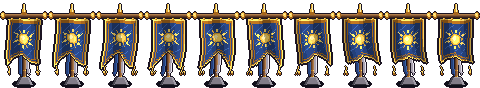
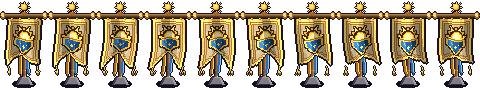
Знамя храмовника в символике фракций: Сольгард — солнце над щитом, Умбрат — корона с черепом
Сольгард (data/factions.json: «Восходящее солнце над щитом»): полотнище цвета пергамента с широкой золотой каймой, золотое восходящее солнце над небесно-голубым щитом, ленты золото и небесно-голубой, золотые кисти, навершие — солнечный диск.
Умбрат («Чёрная корона с черепом»): чёрно-фиолетовое полотнище с фиолетовой каймой, корона над костяным черепом с зелёными глазами, навершие — зубцы короны.

diff --git a/tools/gen/vfx-banner.ts b/tools/gen/vfx-banner.ts
@@ -1,5 +1,7 @@
 /** Штандарт «Знамя защиты» (tp_banner, задача 127, шаг 4): большое знамя на высоком древке, колышется на ветру, кольцо ауры радиуса баффа и пыль установки.
- *  Две фракции по caster: Сольгард — тёмно-синее полотнище, золотая кайма и золотое солнце; Умбрат — чёрно-фиолетовое полотнище, фиолетовая кайма, зелёное око.
+ *  Символика по data/factions.json. Сольгард («Восходящее солнце над щитом»): полотнище слоновой кости с широкой золотой каймой, золотое восходящее солнце над
+ *  небесно-голубым щитом с золотым ободом, золотые кисти и ленты, навершие — золотой солнечный диск. Умбрат («Чёрная корона с черепом»): чёрно-фиолетовое полотнище,
+ *  фиолетовая кайма, чёрная корона над костяным черепом с зелёными глазами, навершие — зубцы короны.
  *  Холст 48×88, основание древка в точке привязки (0.5, 0.955); 10 кадров цикла, 9 fps. Палитра — tools/gen/palette.ts (P), золото как --gold.
  *  Ветер: полотнище нарисовано плоско (кайма, внутренняя линия, эмблема, фигурный низ — ласточкин хвост), затем каждый кадр искажается: строки сдвигаются
  *  по горизонтали (сильнее к низу), столбцы по вертикали (волна вдоль ширины); светотень складок бежит вместе с волной; ленты и кисти отстают по фазе.
@@ -22,14 +24,18 @@ interface Fac {
   mark: [RGBA, RGBA, RGBA];      // эмблема
   ribA: [RGBA, RGBA]; ribB: [RGBA, RGBA];
   ring: RGBA[];
+  /** Ширина каймы, px; навершие: солнечный диск (Сольгард) или зубцы короны (Умбрат). */
+  trimW: number; finial: "sun" | "crown";
 }
 const FAC: Record<"solgard" | "umbrath", Fac> = {
   solgard: {
-    field: [hex("#16243e"), hex("#24407a"), hex("#3a62a8")],
+    // слоновая кость с тёплыми серо-бежевыми складками, широкая золотая кайма (золото и тёплый белый фракции)
+    field: [hex("#7a6a4c"), hex("#bfae88"), hex("#d6c8a4")],
     trim: [P.gold[1], P.gold[3], P.gold[4]],
     mark: [P.gold[2], P.gold[3], P.gold[4]],
-    ribA: [hex("#24407a"), hex("#3a62a8")], ribB: [hex("#a8a2b0"), hex("#e8e4ee")],
-    ring: [P.gold[0], P.gold[1], P.gold[2], P.gold[3], P.gold[4]],
+    ribA: [P.gold[1], P.gold[3]], ribB: [hex("#2c6ca8"), hex("#7ec8ff")],
+    ring: [P.gold[0], P.gold[1], P.gold[2], P.gold[3], hex("#fff4c8")],
+    trimW: 3, finial: "sun",
   },
   umbrath: {
     field: [hex("#100a1a"), hex("#22163a"), hex("#382858")],
@@ -37,6 +43,7 @@ const FAC: Record<"solgard" | "umbrath", Fac> = {
     mark: [P.magic.green[1], P.magic.green[2], P.magic.green[3]],
     ribA: [hex("#46265e"), hex("#6a3c8a")], ribB: [P.magic.green[1], P.magic.green[2]],
     ring: [hex("#2a1846"), hex("#5a34a0"), hex("#8a5ce0"), hex("#b890ff"), hex("#e0ccff")],
+    trimW: 2, finial: "crown",
   },
 };
 
@@ -46,37 +53,57 @@ function clothTexture(fac: "solgard" | "umbrath") {
   const bottom = (x: number) => CH - 1 - Math.round(11 * (1 - Math.abs((2 * x) / (CW - 1) - 1)));   // граница снизу: V-вырез
   for (let x = 0; x < CW; x++) for (let y = 0; y <= bottom(x); y++) mask[y][x] = true;
   const inside = (x: number, y: number) => x >= 0 && y >= 0 && x < CW && y < CH && mask[y][x];
-  // расстояние до края (манхэттенское по 4 соседям, до 5)
+  // расстояние до края (по 4 соседям, до 5)
   const dist = (x: number, y: number) => { for (let d = 1; d <= 5; d++) for (const [dx, dy] of [[d, 0], [-d, 0], [0, d], [0, -d]]) if (!inside(x + dx, y + dy)) return d; return 9; };
   for (let y = 0; y < CH; y++) for (let x = 0; x < CW; x++) {
     if (!mask[y][x]) continue;
     const d = dist(x, y);
     let c: RGBA = (x + y) % 9 === 0 && d > 5 ? F.field[2] : F.field[1];
-    if (d <= 2 || y < 3) c = d === 1 || y === 0 ? F.trim[1] : F.trim[0];            // кайма: 2 px по краю и 3 px сверху
-    else if (d === 4) c = F.trim[0];                                                 // внутренняя линия
+    if (d <= F.trimW || y < F.trimW + 1) c = d === 1 || y === 0 ? F.trim[1] : d === F.trimW ? F.trim[0] : (x + y) % 4 === 0 ? F.trim[2] : F.trim[1];   // кайма
+    else if (d === F.trimW + 2) c = F.trim[0];                                       // внутренняя линия
     tex.set(x, y, c);
   }
-  // эмблема
-  const ex = CW / 2, ey = 19;
+  // эмблема (крупно, контрастно, без мелочи)
+  const em = new PC(CW, CH), ex = CW / 2;
   if (fac === "solgard") {
-    // солнце: диск с бликом, 12 лучей (длинные и короткие через один)
-    for (let k = 0; k < 12; k++) {
-      const a = (k / 12) * TAU - Math.PI / 2, len = k % 2 === 0 ? 5 : 3, r1 = 6.2, px = -Math.sin(a), py = Math.cos(a);
-      tex.poly([[ex + Math.cos(a) * r1 + px * 1.3, ey + Math.sin(a) * r1 + py * 1.3], [ex + Math.cos(a) * r1 - px * 1.3, ey + Math.sin(a) * r1 - py * 1.3], [ex + Math.cos(a) * (r1 + len), ey + Math.sin(a) * (r1 + len)]], F.mark[k % 2 ? 0 : 1]);
+    // восходящее солнце (полудиск с лучами) над щитом
+    const G = P.gold, sky = [hex("#12365e"), hex("#1f5a96"), hex("#3a86c8"), hex("#7ec8ff")], sy = 17;
+    for (let k = 0; k <= 6; k++) {
+      const a = Math.PI + (k / 6) * Math.PI, len = k % 2 === 0 ? 5 : 3.5, r1 = 6.8, px = -Math.sin(a), py = Math.cos(a);
+      em.poly([[ex + Math.cos(a) * r1 + px * 1.4, sy + Math.sin(a) * r1 + py * 1.4], [ex + Math.cos(a) * r1 - px * 1.4, sy + Math.sin(a) * r1 - py * 1.4], [ex + Math.cos(a) * (r1 + len), sy + Math.sin(a) * (r1 + len)]], k % 2 ? G[2] : G[3]);
     }
-    tex.ellipse(ex, ey, 5.2, 5.2, F.mark[0]); tex.ellipse(ex, ey, 4.2, 4.2, F.mark[1]);
-    tex.ellipse(ex - 1, ey - 1, 2, 2, F.mark[2]);
+    for (let y = sy - 6; y <= sy; y++) for (let x = -6; x <= 6; x++) { const d = Math.hypot(x, y - sy); if (d <= 5.6) put(em, ex + x, y, d < 3.2 ? G[4] : d < 4.6 ? G[3] : G[2]); }
+    for (let x = -8; x <= 8; x++) { put(em, ex + x, sy + 1, G[3]); put(em, ex + x, sy + 2, G[1]); }                 // линия горизонта
+    // щит: небесно-голубой, золотой обод
+    const top = 20, bot = 33, hw = (y: number) => (y < 25 ? 9 : Math.max(0, 9 - (y - 25) * 1.15));
+    for (let y = top; y <= bot; y++) for (let x = -10; x <= 10; x++) {
+      const w = hw(y);
+      if (Math.abs(x) > w + 0.2 || w <= 0) continue;
+      const rim = Math.abs(x) > w - 1.3 || y === top || y === bot || (y > 25 && Math.abs(x) > w - 1.8);
+      put(em, ex + x, y, rim ? (x < 0 ? G[3] : G[2]) : y > bot - 4 ? sky[0] : x < -2 ? sky[2] : x > 3 ? sky[0] : sky[1]);
+    }
+    for (const [dx, dy] of [[0, 25], [0, 26], [-1, 26], [1, 26], [0, 27], [-3, 24], [3, 24]]) put(em, ex + dx, dy, G[3]);   // золотая звезда
+    put(em, ex - 4, top + 2, sky[3]); put(em, ex - 4, top + 3, sky[3]);
   } else {
-    // око: миндалевидный контур, радужка, зрачок, блик и три луча сверху
-    for (let x = -9; x <= 9; x++) {
-      const h = 4.6 * Math.pow(1 - (x / 9.4) ** 2, 0.7);
-      for (let y = -Math.ceil(h); y <= Math.ceil(h); y++) if (Math.abs(y) <= h) put(tex, ex + x, ey + y, Math.abs(y) >= h - 1 ? F.mark[0] : F.field[0]);
-      put(tex, ex + x, ey - Math.round(h) - 1, F.mark[1]); put(tex, ex + x, ey + Math.round(h) + 1, F.mark[0]);
+    // чёрная корона над костяным черепом со светящимися зелёными глазами
+    const lil = [hex("#6a3c8a"), hex("#9a62b8"), hex("#d0b4f0")], bone = P.bone, gr = P.magic.green, dark = hex("#0a0612");
+    for (const cxs of [8.5, 16, 23.5]) {
+      const apex = cxs === 16 ? 3 : 5;
+      em.poly([[cxs - 3.6, 12], [cxs + 3.6, 12], [cxs, apex]], lil[1]); em.line(cxs, apex + 1, cxs - 2.4, 11, lil[2], 1);
+      put(em, cxs, apex, lil[2]); put(em, cxs, apex + 1, lil[2]);
     }
-    tex.ellipse(ex, ey, 3.7, 3.7, F.mark[1]); tex.ellipse(ex, ey, 1.9, 1.9, F.field[0]); put(tex, ex - 1.5, ey - 1.5, F.mark[2]);
-    for (const dx of [-6, 0, 6]) { tex.line(ex + dx, ey - 8, ex + dx * 1.4, ey - 12, F.mark[1], 1); }
-    for (const dx of [-4, 4]) put(tex, ex + dx, ey + 9, F.mark[0]);
+    for (let x = -9; x <= 9; x++) { for (let y = 11; y <= 15; y++) put(em, ex + x, y, dark); put(em, ex + x, 11, lil[2]); put(em, ex + x, 15, lil[1]); }
+    for (const gx of [-6, 0, 6]) { put(em, ex + gx, 12, gr[3]); put(em, ex + gx, 13, gr[3]); put(em, ex + gx, 14, gr[2]); }
+    // череп
+    em.ellipse(ex, 22, 7.6, 6.8, bone[1]); em.ellipse(ex - 0.6, 21.4, 6.9, 6.1, bone[2]); em.ellipse(ex - 2.4, 19.6, 3.2, 2.2, bone[3]);
+    for (let y = 26; y <= 31; y++) for (let x = -4; x <= 4; x++) put(em, ex + x, y, x > 2 ? bone[1] : bone[2]);
+    for (const tx of [-2, 0, 2]) for (let y = 28; y <= 31; y++) put(em, ex + tx, y, dark);
+    for (let x = -4; x <= 4; x++) put(em, ex + x, 27, bone[0]);
+    for (const sx of [-3.4, 3.4]) { em.ellipse(ex + sx, 22, 2.9, 2.7, gr[0]); em.ellipse(ex + sx, 22, 2.1, 2.1, dark); em.ellipse(ex + sx, 22.2, 1.3, 1.3, gr[3]); put(em, ex + sx - 0.5, 21.5, gr[4]); }
+    em.poly([[ex, 24], [ex - 1.6, 26.2], [ex + 1.6, 26.2]], dark);
   }
+  em.outline(fac === "solgard" ? hex("#3a2208") : hex("#05030a"), true);   // тёмный контур эмблемы: читается с одного взгляда
+  tex.blit(em, 0, 0);
   return { tex, mask, bottom };
 }
 
@@ -123,8 +150,17 @@ function bannerFrame(fac: "solgard" | "umbrath", t: number, cloth: ReturnType<ty
   for (let x = 4; x <= W - 5; x++) { put(f, x, 14, wood[3]); put(f, x, 15, wood[2]); put(f, x, 16, wood[1]); put(f, x, 17, wood[0]); }
   for (const ex of [2, W - 4]) { f.ellipse(ex + 1, 15.5, 2.6, 3.4, gold[1]); f.ellipse(ex + 0.6, 14.8, 1.6, 2.2, gold[3]); put(f, ex, 14, gold[4]); }
   for (const rx of [X0 + 3, X0 + 11, X0 + CW - 12, X0 + CW - 4]) { put(f, rx, 18, gold[3]); put(f, rx + 1, 18, gold[2]); put(f, rx, 19, gold[2]); put(f, rx + 1, 19, gold[1]); }
-  f.poly([[CX - 2, 13], [CX + 2, 13], [CX + 1, 6], [CX, 3], [CX - 1, 6]], gold[2]); f.line(CX, 4, CX, 12, gold[4], 1); put(f, CX - 1, 8, gold[3]);
-  f.ellipse(CX, 13.5, 3, 1.6, gold[1]);
+  if (F.finial === "sun") {
+    // золотой солнечный диск с короткими лучами
+    for (let k = 0; k < 8; k++) { const a = (k / 8) * TAU; put(f, CX + Math.cos(a) * 5.4, 7 + Math.sin(a) * 5.4, gold[k % 2 ? 2 : 3]); put(f, CX + Math.cos(a) * 4.4, 7 + Math.sin(a) * 4.4, gold[3]); }
+    f.ellipse(CX, 7, 3.4, 3.4, gold[2]); f.ellipse(CX - 0.4, 6.6, 2.6, 2.6, gold[3]); put(f, CX - 1, 5, gold[4]); put(f, CX, 5, gold[4]);
+    f.ellipse(CX, 13.5, 3, 1.6, gold[1]);
+  } else {
+    // зубцы чёрной короны
+    const lil = [hex("#6a3c8a"), hex("#9a62b8"), hex("#d0b4f0")];
+    for (const dx of [-4, 0, 4]) { f.poly([[CX + dx - 2, 13], [CX + dx + 2, 13], [CX + dx, dx === 0 ? 2 : 5]], lil[1]); put(f, CX + dx, dx === 0 ? 2 : 5, lil[2]); f.line(CX + dx, dx === 0 ? 3 : 6, CX + dx - 1, 12, lil[2], 1); }
+    f.ellipse(CX, 13.5, 5, 1.6, lil[0]); put(f, CX, 12, P.magic.green[3]);
+  }
   f.outline(OUTLINE);
   return f;
 }
